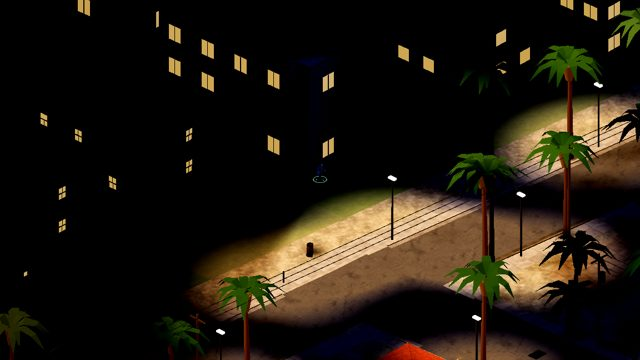
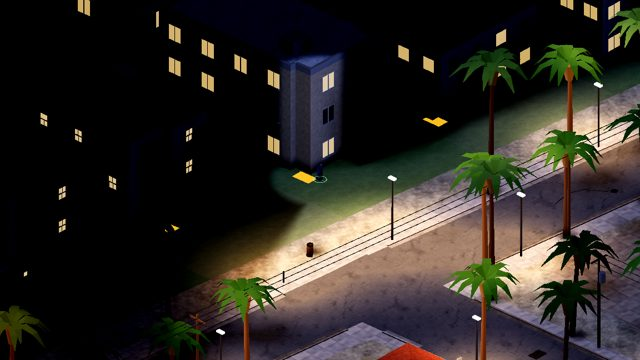
BUG-16/BUG-20: player stays in his ring; softer, more natural night
The gangster walk was baked with the hips ~1.3 m ahead of the feet, so
walking drew you out of your ring and stopping snapped you back. The
model's Walk and Idle are re-centred on load (hips within 0.08 m now).
At night the lamp light fades softly from under each lamp in warm
sodium orange instead of a flat disc with an edge, and a faint blue
city glow keeps streets, palms and buildings readable away from the
lamps. Who can see you in the dark is unchanged (sim rules untouched).

Checks: new verify_player_model PASS; play_3d, render_palette,
scripts_parse PASS; night and dawn album pictures looked at and approved.

Claude-Session: https://claude.ai/code/session_01GhwX2iZQCrjFDTA2VqL7dk

diff --git a/BUGS.md b/BUGS.md
@@ -13,11 +13,8 @@ Severity: **high** = breaks a game or loses progress · **medium** = clearly wro
 
 | ID | Severity | What happens | Where | Found by |
 |----|----------|--------------|-------|----------|
-| BUG-16 | ? (Phil) | "A bug of the player placement": details still needed from Phil (where you start, or where you appear after loading/sleeping?). | ? | Phil |
-| BUG-20 | low (Phil) | Dark spots where there is no light look strange and unnatural (probably the same family as BUG-7). | night lighting | Phil |
 | BUG-15 | medium | At rush hour (08:00) one tick now and then takes 20-28 ms, a small stutter. It comes from the people's daily-routine planner (`NPCScheduleSystem`, up to 27 ms in one tick) when many people re-plan at once, on top of traffic (~11 ms). `verify_sim_perf` measures a real rush hour since BUG-13, so it now passes or fails by chance (main: 19.4 ms pass, 23.5 ms fail). Spread the re-plans over more ticks. | `core/systems/npc_schedule_system.gd` | `verify_sim_perf` |
 | BUG-9 | low (to check on Phil's PC) | In the shop (`--store` picture) a dark curved band runs across the shop floor, under the player. It could be a curved wall drawn at floor height, or a drawing glitch. | shop interior / cutaway | album `shop_counter` |
-| BUG-7 | low (to check on Phil's PC) | At night (22:00) the building walls are pitch black, so only the lit windows show and they seem to float. The server draws in OpenGL mode without the screen-space lighting Phil's PC has, so it may look fine there. | night lighting, `game_view_3d.gd` | album `street_night`, `3d_night` |
 
 ## Ideas (not bugs)
 
@@ -34,6 +31,9 @@ Severity: **high** = breaks a game or loses progress · **medium** = clearly wro
 
 | ID | What it was | Fix | Guarded by |
 |----|-------------|-----|-----------|
+| BUG-7 | At night building walls were pitch black, so lit windows floated. | The BUG-20 city glow lights walls dimly | album `3d_night`, `street_night` |
+| BUG-20 | Night looked unnatural: hard-edged flat lamp discs and pitch-black everywhere else. | Lamp light now fades softly from under each head (warmer sodium), and a faint blue city glow keeps streets, palms and buildings readable | album `3d_night`, `street_night` |
+| BUG-16 | The player figure left its ring when walking and snapped back on stopping: the gangster walk (PL2) was baked with the hips ~1.3 m ahead of the feet. | `player_model_3d.gd` re-centres the Walk and Idle hips on load (now within 0.08 m) | `verify_player_model` |
 | BUG-19 | Wounded too easily: your bleeding never stopped by itself. | A laceration clots by itself after ~2 real minutes; deep and bullet wounds still need a bandage | `verify_gameplay_feel` |
 | BUG-18 | Hungry and thirsty too fast. | Hunger 0.3/day (~2.5 h of play), thirst 0.55/day (~1.5 h) | `verify_needs`, `verify_gameplay_feel` |
 | BUG-17 | You couldn't catch a fleeing person (your run = their jog, winded after ~14 s). | Run 5 m/s, a full breath ~30 s, breath comes back faster; someone you catch stops for 8 s | `verify_gameplay_feel`, `verify_stamina` |
